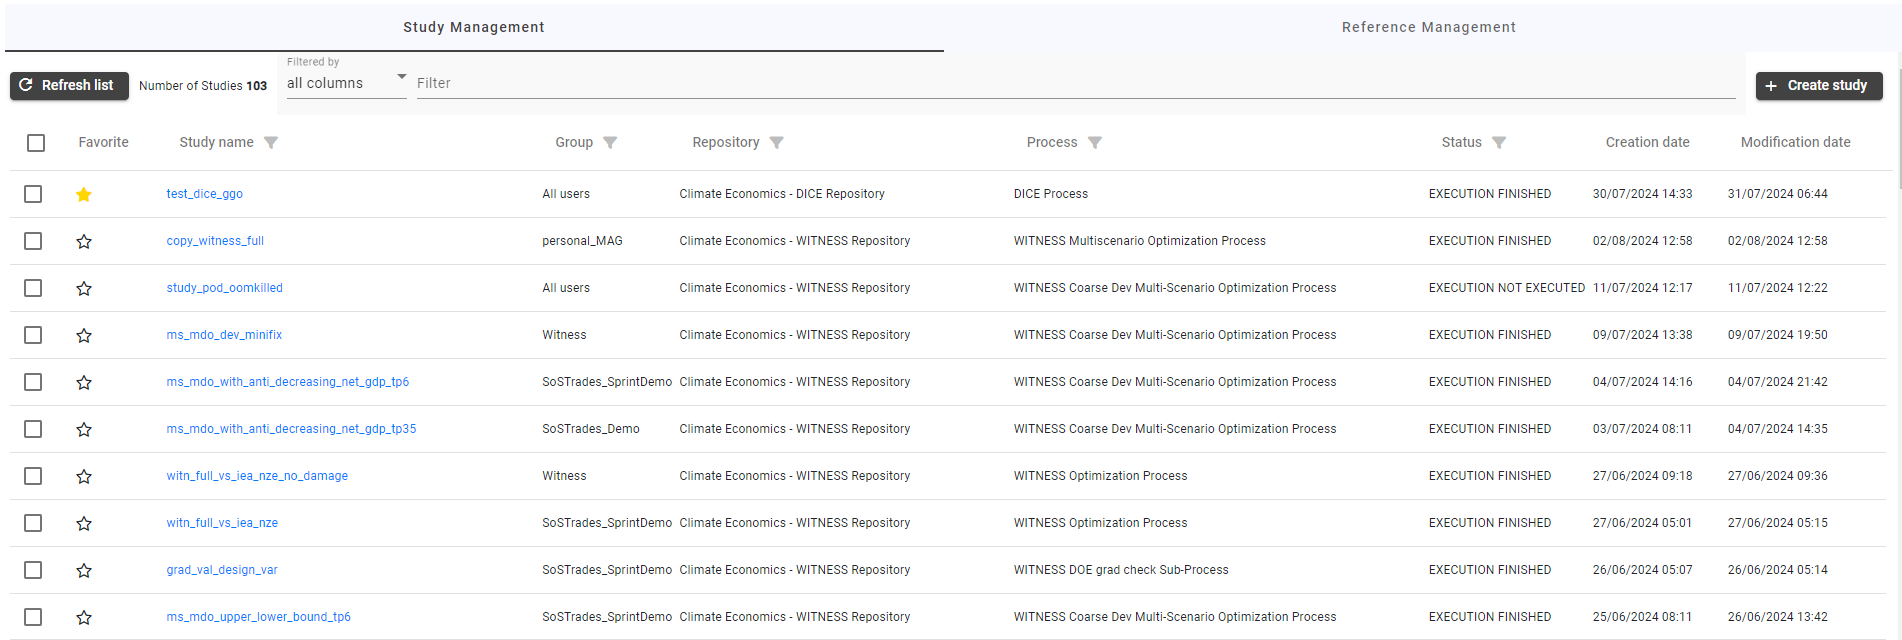
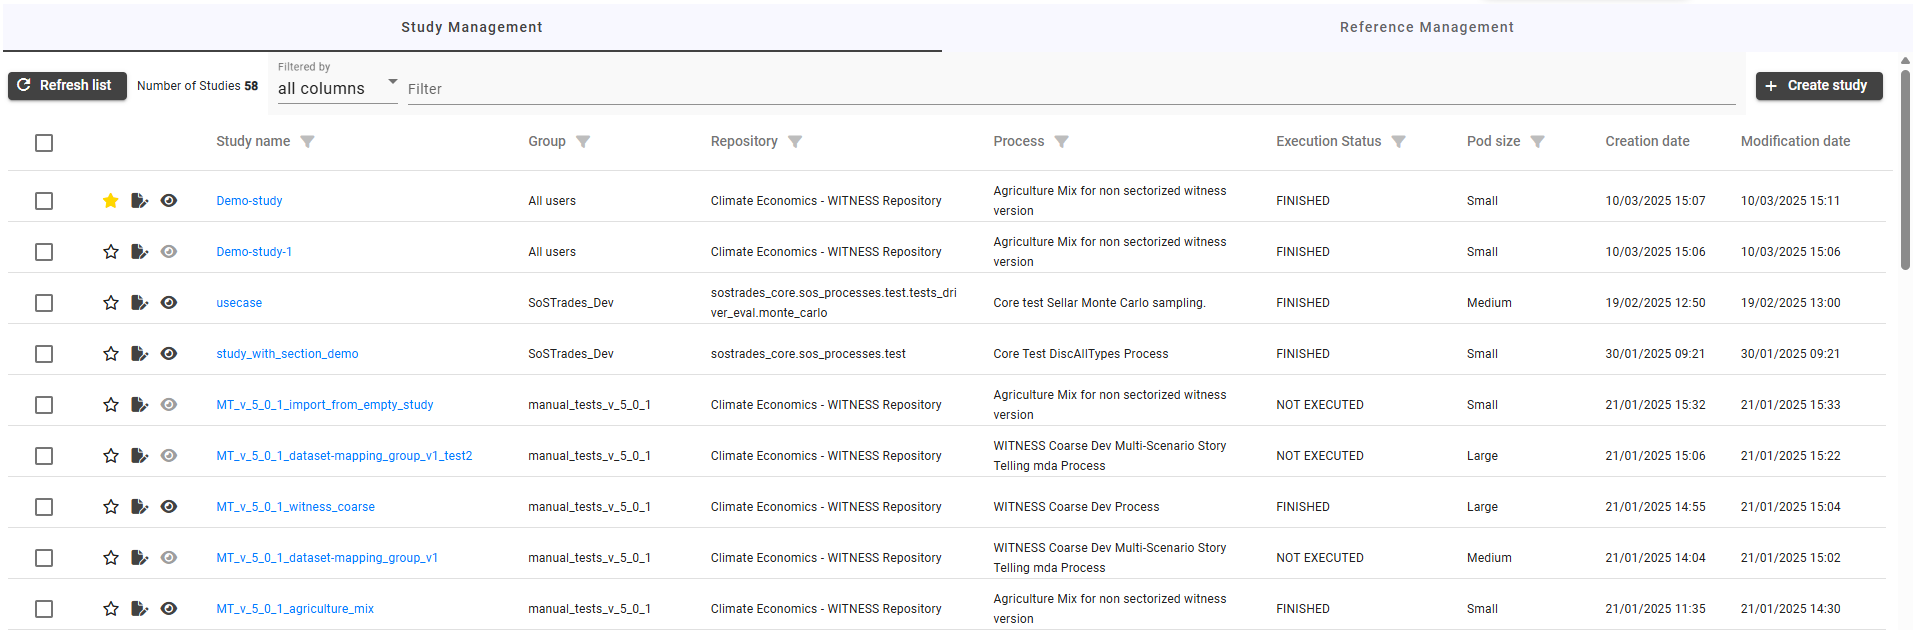
update user manual documentation

diff --git a/docs/source/user_manual.md b/docs/source/user_manual.md
@@ -20,7 +20,7 @@ On the cloud login page, a redirection occurs to the Keycloak homepage, allowing
 
 
 ### Section 1.2: Connexion on local machine
-SoSTrades can be installed on a local machine by following this installation [documentation](installation.md).  Once the installation is successfully completed, the user created with the `CreateUser.py` script from the documentation can be used to access the local platform at [http://localhost:4200/](http://localhost:4200/). The user password can be found in the following path: `./sostrades-dev-tools-test-uv/platform/sostrades-webapi/sos_trades_api/secret/`.  
+SoSTrades can be installed on a local machine by following this installation [documentation](installation.md). Once the installation is successfully completed, the user created with the `CreateUser.py` script from the documentation can be used to access the local platform at [http://localhost:4200/](http://localhost:4200/). The user password can be found in the following path: `./sostrades-dev-tools-test-uv/platform/sostrades-webapi/sos_trades_api/secret/`.  
 ![](images/platform-GUI/login-page/local-login-page.png)
 
 ## Chapter 2: GUI Homepage and Menus
@@ -31,15 +31,13 @@ This chapter provides an overview of the GUI homepage, navigation menus, includi
 
 ![](images/platform-GUI/welcome-page/numbered-welcome-page.png)
 
-After connecting to SoSTrades GUI platform they are many informations displayed on the homepage. Each numbered boxes are describe bellow:
-- **1- Menu button:** From this button you can navigate to the different pages of the GUI like return to the homepage, access to study and reference management pages, ontology, group management and manager.
-- **2- Platform information:** In this box, the name and creation date of the platform are displayed. When you are
-  connected to a cloud platform, the box is clickable to view more details about the different Git repositories the
-  platform is based on.
+After connecting to SoSTrades GUI platform they are many informations displayed on the homepage. Each numbered boxes are described bellow:
+- **1- Menu button:** From this button you can navigate to the different pages of the GUI which will be detailed in next chapters.
+- **2- Platform information:** In this box, the name and creation date of the platform are displayed. When you are connected to a cloud platform, the box is clickable to view more details about the different Git repositories the platform is based on.
 - **3- User information:** The name of the current user is displayed
 - **4- Contact button:** Show the email address of the support team
 - **5- Logout button:** Here is the button to logout
-- **6- Favorite studies:** At the bottom of the homepage there are the last opened and favorite study of the current user. 
+- **6- Favorite studies:** At the bottom of the homepage there are the last opened and favorite study of the current user. Users can mark their favorite studies with a star in the study management panel (see the next section).
 - **7- Header color:** The color of the header is configurable during the platform's creation. For example the cloud
   open source validation platform is green, different color than the purple one for local platforms.
 
@@ -47,18 +45,9 @@ By clicking on the Platform Information box, a table appears summarizing all Git
 ![](images/platform-GUI/header/platform-version.png)  
 ![](images/platform-GUI/header/header-code-traceability.png)  
 
-### Section 2.2: Study Management Visualisation
+### Section 2.2: Group Management
 
-From the menu button, it is possible to access the study management page and list all the studies that the current user can access, according to their rights on each study, as well as the rights of the groups to which they belong. On that page, it is possible to search for a study by name using the search bar. A study can also be created with the 'Create Study' button, which will be explained in more detail later in this documentation.  
-![](images/platform-GUI/header/menu-study.png)
-![](images/platform-GUI/study-management/study-management-list.png)
-
-### Section 2.3: Reference management Visualisation
-
-Similar to the study management page, the reference management page can be accessed from the menu button to list references and can also be found using the search bar. A study can be created from a reference, and a reference can be generated.  
-![](images/platform-GUI/reference-management/reference-list.png)
-
-### Section 2.4: Group Management
+The Group Management feature, accessible via the menu button, allows users to organize access rights within the platform. 
 
 Each user connected to the platform belongs to, at least, one group with rights.
 
@@ -82,16 +71,18 @@ if a group is added as a manager in a process entity's rights, all users in the 
 If a group is added as a restricted viewer in a study-case entity's rights, all users in the group (owner, manager, or member) will be restricted viewers of the study-case.  
 If a user in the restricted viewer group is also added as a manager in the same study-case entity's rights, they will have manager rights for this study-case.
 
-#### Subsection 2.4.1 Create group
+By default at the first connexion on the GUI, the new users are in "All users" group. 
+
+#### Subsection 2.2.1 Create group
 ![](images/platform-GUI/group-management/create_group.png)  
 To create a new group, user must fill in the name and description.  
 :warning: Note: If user select confidential, the data will be encrypted. Even developers will not have access to it, and there will be no possibility to directly download the results.
 
-#### Subsection 2.4.2 Select a default group
+#### Subsection 2.2.2 Select a default group
 ![](images/platform-GUI/group-management/default_group.png)  
 If user select a default group, it will be preselected during a study creation.
 
-#### Subsection 2.4.3 Share a group
+#### Subsection 2.2.3 Share a group
 If user is manager of the group, he can also add in this group, an other or several users and/or groups, witch can contain several users, by clicking on the share icon ![](images/platform-GUI/icon/icon_share.png)
 
 ![](images/platform-GUI/group-management/share_group.png)
@@ -99,13 +90,79 @@ If user is manager of the group, he can also add in this group, an other or seve
 This user can also modify the access rights of a user or a group present in this group.  
 ![](images/platform-GUI/group-management/edit_rights.png)
 
-#### Subsection 2.4.4 Delete a group
+#### Subsection 2.2.4 Delete a group
 ![](images/platform-GUI/icon/icon_delete.png)  
 **<span style="color: red;">Removing a group will delete all studies that belong to this group.</span>**
 
+
+### Section 2.3: Study Management Visualisation
+
+From the menu button, it is possible to access the study management page and list all the studies that the current user can access, according to their rights on each study, as well as the rights of the groups to which they belong. On that page, it is possible to search for a study by name using the search bar. A study can also be created with the 'Create Study' button, which will be explained in more detail later in this documentation.  
+![](images/platform-GUI/header/menu-study.png)
+![](images/platform-GUI/study-management/study-management-list.png)
+
+#### Section 2.3.1: Study management column
+
+The study management list includes several columns that provide detailed information about each study:
+
+- Study Name: The name of the study.
+- Group: The group to which the study belongs.
+- Repository: The code repository associated with the study.
+- Process: The process used for the study.
+- Execution Status: The current execution state of the study.
+- Pod Size: The computing resources allocated to the study. (This column appears only when using the hosted GUI and not on a local machine, as a pod is used for computation in the hosted environment.)
+- Creation Date: The date the study was created.
+- Modification Date: The date the study was last modified.
+
+#### Section 2.3.2: Filter bar
+
+To facilitate the search for a study, a filter bar is available, allowing users to find a study using the dedicated field. 
+![](images/platform-GUI/study-management/filter-bar.png)  
+To filter by keyword in a specific column of the study management table, you can keep "All columns" selected for a broad search. For a more specific search, select "Name" from the dropdown menu to filter by study name, as shown in the example:  
+![](images/platform-GUI/study-management/dropdown-menu.png)  
+![](images/platform-GUI/study-management/filter-bar-by-name.png)
+
+#### Section 2.3.3: Favorite
+
+It is possible to mark a study as a favorite by clicking on the star icon ![](images/platform-GUI/icon/favorite.png), which will turn yellow![](images/platform-GUI/icon/favorite-yellow-star.png). Selecting a study as a favorite will make it visible on the homepage, and it will also be easier to find in the study management list by sorting the table using the corresponding column.
+
+#### Section 2.3.4: Study case opening
+
+There are two ways to open a study: in read-only mode ![](images/platform-GUI/study-management/read-only-mode-icon.png) or edition mode ![](images/platform-GUI/study-management/edition-mode-icon.png), each with its own associated icon. Alternatively, a study can be opened by clicking on its name. If the study has already been computed, it will open in read-only mode; otherwise, it will open in edition mode. The read only and edition mode will be explained in more detail in the chapter on Study Operations.
+
+#### Section 2.3.5: Study case option icons
+
+By hovering over the same row as a study, additional icons appear on the right side, providing more options for interaction:  
+![](images/platform-GUI/study-management/option-icon.png)
+
+- The firs icon ![](images/platform-GUI/study-management/rename-button-icon.png) allows you to modify the name of the study or change the group of the study:  
+![](images/platform-GUI/study-management/rename-study.png)  
+
+- The second icon ![](images/platform-GUI/study-management/pod-size-icon.png) is available only when you are in hosted GUI that allow to configure the pod size when opening a study as edition mode:  
+![](images/platform-GUI/study-management/study-pod-size.png)  
+
+- The third icon ![](images/platform-GUI/study-management/copy-study-icon.png) allows to duplicate the study with another name:  
+![](images/platform-GUI/study-management/copy-study.png)  
+
+- The next icon ![](images/platform-GUI/study-management/delete-icon.png) is for deleting a study.  
+![](images/platform-GUI/study-management/confirm-delete.png)  
+
+- This icon ![](images/platform-GUI/study-management/share-icon.png) allows to get the link of study to be shared:  
+![](images/platform-GUI/study-management/share-link.png)  
+
+- The last icon ![](images/platform-GUI/study-management/grant-right-icon.png) allows to manage group or user rights on that study:  
+![](images/platform-GUI/study-management/study-rights.png) 
+
+
+### Section 2.4: Reference management Visualisation
+
+Similar to the study management page, the reference management page can be accessed from the menu button to list references and can also be found using the filter bar similar to the study management filter bar. A study can be created from a reference, and a reference can be generated.  
+![](images/platform-GUI/reference-management/reference-list.png)
+
+
 ### Section 2.5: Ontology Menu
 
-The SoSTrades Ontology is composed of all entities and relationships between concepts used in the Systems of Systems Trades project. The main concepts modeled are Code Repositories, Process Repositories, Processes, Models, Usecases and Parameters. There are represented as OWL Classes and their instances are OWL Individuals. For each instance, the ontology store metadata (label, description, documentation, ...) that are extracted from the Python code stored in the code repositories of the project in Gitlab. This ontology primary purpose is to complement the Web Interface of SoSTrades with these metadata to have a better lisibility and understandability. It is also a good way to explore the available concepts in the SoSTrades platform.
+The SoSTrades Ontology is composed of all entities and relationships between concepts used in the Systems of Systems Trades project. The main concepts modeled are Code Repositories, Process Repositories, Processes, Models, Usecases and Parameters. For each instance, the ontology store metadata (label, description, documentation, ...) that are extracted from the Python code stored in the code repositories of the project in Gitlab. This ontology primary purpose is to complement the Web Interface of SoSTrades with these metadata to have a better lisibility and understandability. It is also a good way to explore the available concepts in the SoSTrades platform.
 
 As the same way of other pages of SoSTrades you can access to the Ontology homepage from the menu button at the top left of the homepage and select Ontology.  
 ![](images/platform-GUI/header/menu-to-ontology-homepage.png)  
